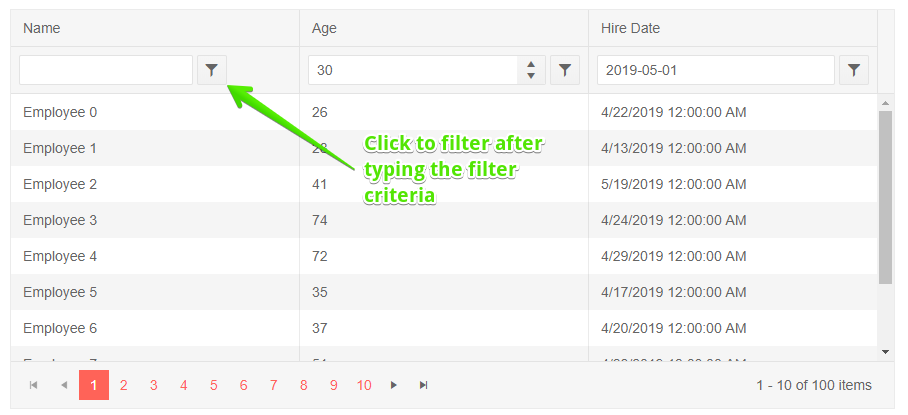
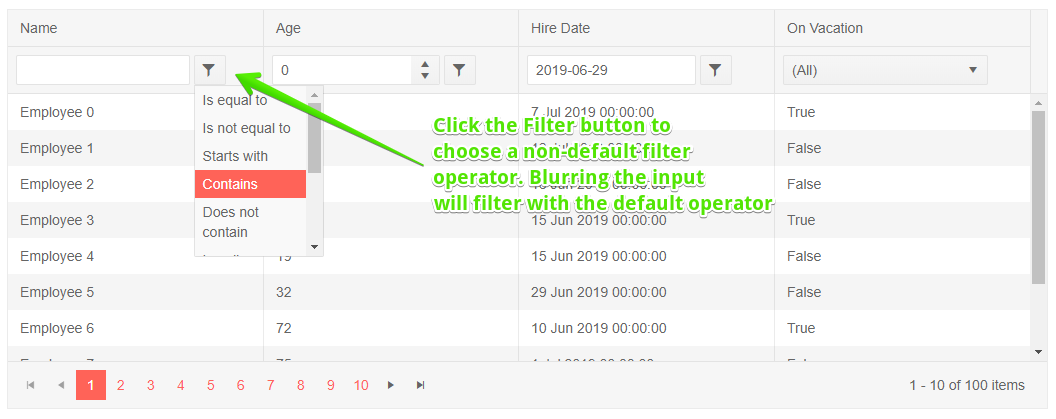
docs(grid): filter operators list

diff --git a/components/grid/filtering.md b/components/grid/filtering.md
@@ -14,13 +14,11 @@ The Grid component offers support for filtering.
 
 To enable sorting, set the grid's `Filterable` property to `true`.
 
-The grid will render a row below the column headers with UI that you can use to fill in filter criteria and then you can click a button to execute the filter. Once a filter is a applied to a column, a button will appear that lets you clear that filter.
+The grid will render a row below the column headers with UI that you can use to fill in the filter criteria. You can click outside of the filter to execute the default operator, or click a button to choose a different filter operator (like "contains", "greater than" and so on).
 
-The behavior of the filter header will depend on the column data type:
+Once a filter is a applied to a column, a button will appear that lets you clear that filter.
 
-* `string` - the filter is `Contains`. A [Telerik TextBox]({%slug components/textbox/overview%}) component is used.
-* `number` - the filter is `EqualsTo`. A [Telerik Numeric TextBox]({%slug components/numerictextbox/overview%}) component is used.
-* `DateTime` - the filter is `EqualsTo`. A [Telerik Date Input]({%slug components/dateinput/overview%}) component is used.
+The behavior of the filter header input and the available filter operators will depend on the column data type. For example, a boolean field will only have the options "is true" and "is false" and will not have operators like "contains" or "greater than".
 
 You can filter more than one column at a time, and all filter rules will be applied together with an `AND` logic.
 
@@ -34,6 +32,7 @@ You can filter more than one column at a time, and all filter rules will be appl
 		<TelerikGridColumn Field=@nameof(Employee.Name) />
 		<TelerikGridColumn Field=@nameof(Employee.AgeInYears) Title="Age" />
 		<TelerikGridColumn Field=@nameof(Employee.HireDate) Title="Hire Date" />
+		<TelerikGridColumn Field=@nameof(Employee.IsOnLeave) Title="On Vacation" />
 	</TelerikGridColumns>
 </TelerikGrid>
 
@@ -51,7 +50,8 @@ You can filter more than one column at a time, and all filter rules will be appl
 				EmployeeId = i,
 				Name = "Employee " + i.ToString(),
 				AgeInYears = rand.Next(10, 80),
-				HireDate = DateTime.Now.Date.AddDays(rand.Next(-20, 20))
+				HireDate = DateTime.Now.Date.AddDays(rand.Next(-20, 20)),
+				IsOnLeave = i % 3 == 0
 			});
 		}
 	}
@@ -62,6 +62,7 @@ You can filter more than one column at a time, and all filter rules will be appl
 		public string Name { get; set; }
 		public int? AgeInYears { get; set; }
 		public DateTime HireDate { get; set; }
+		public bool IsOnLeave { get; set; }
 	}
 }
 ````
